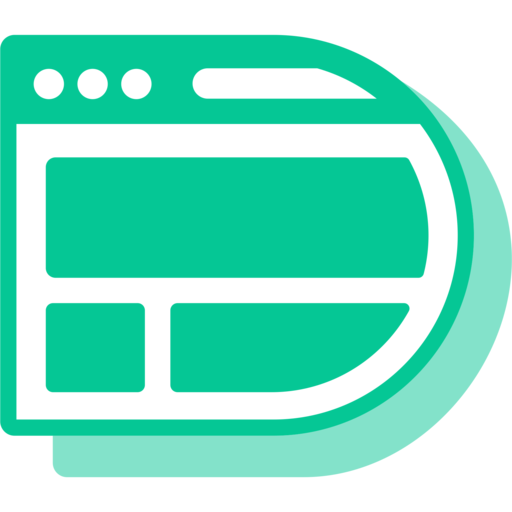
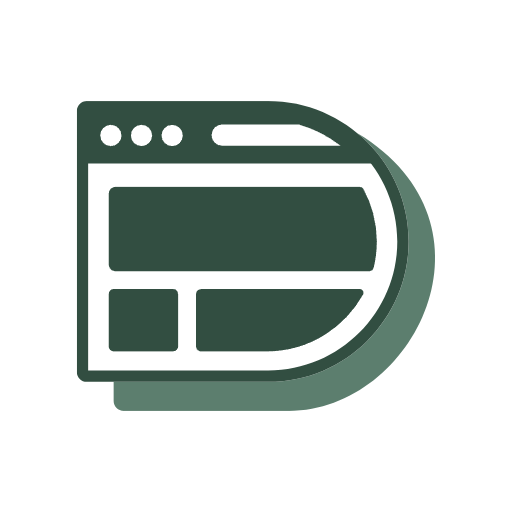
Update styling to Attic

diff --git a/assets/js/dashboard.js b/assets/js/dashboard.js
@@ -145,12 +145,26 @@ function loadData() {
             data: data.data,
             order: [[0, 'desc']],
             columns: [
-              { data: 'Date' },
+              { 
+                data: 'Date',
+                render: function(data, type, row) {
+                  if (type === 'display') {
+                    return data;
+                  }
+                  if (type === 'sort') {
+                    // Convert DD-MM-YYYY to YYYY-MM-DD for sorting
+                    const parts = data.split('-');
+                    return `${parts[2]}-${parts[1]}-${parts[0]}`;
+                  }
+                  return data;
+                }
+              },
               { data: 'Clone' },
               { data: 'Website' },
               { data: 'Statistics', render: function (data, type, row) { return data + ' views' } },
               {
-                data: 'Automated analysis', render: function (data, type, row) {
+                data: 'Automated analysis', 
+                render: function (data, type, row) {
                   if (data.startsWith('http')) {
                     return '<a href="' + data + '" style="border-bottom:0px;" target="_blank"><button class="uk-button uk-button-primary uk-button-small">Analysis</button></a>'
                   } else {
@@ -159,7 +173,8 @@ function loadData() {
                 }
               },
               {
-                data: 'Status', render: function (data, type, row) {
+                data: 'Status', 
+                render: function (data, type, row) {
                   return data == "Offline" ? '<font color="red">' + data + '</font>' : '<font color="green">' + data + '</font>';
                 }
               }

diff --git a/_includes/boxes_pricing.html b/_includes/boxes_pricing.html
@@ -31,7 +31,7 @@
                     {% endif %}
                     <h3 class="uk-card-title uk-margin">{{ item.title }}</h3>
                     {% if item.desc %}
-                      <span style="color: #05c896; font-size: 16px; font-weight: bold;" id="box_{{item.name}}">{{ item.desc }}</span>
+                      <span style="color: #324E41; font-size: 16px; font-weight: bold;" id="box_{{item.name}}">{{ item.desc }}</span>
                     {% endif %}
 		    <br />
 		    <br />
@@ -45,7 +45,7 @@
                     {% endfor %}
 		    </ul>
                     {% if item.price %}
-                      <span style="color: #05c896; font-size: 16px; font-weight: bold; display: none;" id="price_{{item.name}}">{{ item.price }}</span>
+                      <span style="color: #324E41; font-size: 16px; font-weight: bold; display: none;" id="price_{{item.name}}">{{ item.price }}</span>
                     {% endif %}
 		    <br /><br />
 		    <div id="pricing_button">{% if item.name == 'enterprise' %}<a href="https://azuremarketplace.microsoft.com/en-us/marketplace/apps/zolderbv1714139676050.didsomeonecloneme?tab=Overview" id="select_{{item.name}}" class="uk-button uk-button-primary" style="font-size: 1.125rem; color: #ffffff" target="_blank">Get Enterprise</a>{% else %}<a href="/?plan={{item.name}}" id="select_{{item.name}}" class="uk-button uk-button-primary" style="font-size: 1.125rem; color: #ffffff">Get {{ item.name }}</a>{% endif %}</div>

diff --git a/assets/css/main.scss b/assets/css/main.scss
@@ -51,28 +51,41 @@ html, body {
   max-height: 120px
 }
 
-.marker {
-  margin: 0 -0.4em;
-  padding: 0.05em 0.4em;
-  border-radius: 0.8em 0.3em;
-  background: transparent;
-  background-image: linear-gradient(
-  to right,
-  rgba(5, 200, 150, 0.1),
-  rgba(5, 200, 150, 0.7) 4%,
-  rgba(5, 200, 150, 0.3)
-  );
-  -webkit-box-decoration-break: clone;
-  box-decoration-break: clone;
-}
-
 .trusted-by {
-  display: flex;
-  justify-content: center;
-  align-items: center;
-  flex-direction: column;
+  background-color: #324e41;
+  color: #fff;
+  width: 100%;
+  padding: 4rem 0;
+  margin: 2rem 0;
   text-align: center;
-  padding-top: 4em;
+
+  h2 {
+    font-size: 2.5rem;
+    margin-bottom: 3rem;
+    font-weight: 500;
+    color: #fff;
+  }
+
+  .trusted-logos {
+    display: flex;
+    justify-content: center;
+    align-items: center;
+    gap: 4rem;
+    max-width: 800px;
+    margin: 0 auto;
+    padding: 0 2rem;
+
+    img {
+      max-height: 100px;
+      filter: brightness(0) invert(1); // Makes logos white
+      opacity: 0.9;
+      transition: opacity 0.3s ease;
+
+      &:hover {
+        opacity: 1;
+      }
+    }
+  }
 }
 
 .logo img {

diff --git a/_sass/theme/variables.scss b/_sass/theme/variables.scss
@@ -2,12 +2,12 @@
 // ========================================================================
 
 // Color
-$global-color:                                #323247;
+$global-color:                                #324E41;
 $global-muted-color:                          #8f919e;
-$global-primary-background:                   #05c896;
+$global-primary-background:                   #324E41;
 $global-secondary-background:                 #222;
-$global-warning-background:                   #fbc418;
-$global-success-background:                   #403e56;
+$global-warning-background:                   #FCDA00;
+$global-success-background:                   #324E41;
 $global-danger-background:                    #f0506e;
 $base-link-color:                               $global-color;
 $base-link-hover-color:                         $global-color;

diff --git a/_includes/head.html b/_includes/head.html
@@ -8,8 +8,8 @@
   <link rel="icon" type="image/png" sizes="32x32" href="/favicon-32x32.png">
   <link rel="icon" type="image/png" sizes="16x16" href="/favicon-16x16.png">
   <link rel="manifest" href="/site.webmanifest">
-  <link rel="mask-icon" href="/safari-pinned-tab.svg" color="#05c896">
-  <meta name="msapplication-TileColor" content="#05c896">
+  <link rel="mask-icon" href="/safari-pinned-tab.svg" color="#324E41">
+  <meta name="msapplication-TileColor" content="#324E41">
   <meta name="theme-color" content="#ffffff">
   <link rel="alternate" type="application/rss+xml" title="{{ site.title | escape }}" href="{{ "/feed.xml" | relative_url }}">
   <script src="{{ "/assets/js/main.js" | relative_url }}"></script>

diff --git a/_includes/trusted.html b/_includes/trusted.html
@@ -1,9 +1,8 @@
-<div class="trusted-by">
-  <h1><span class="marker">Trusted By</span></h1>
-  <p>
-  <div class="logo">
+<section class="trusted-by">
+  <h2>Trusted By 500+ Companies</h2>
+  <div class="trusted-logos">
+    <a href="https://www.thehumanspecialist.com/" target="_blank"><img src="/assets/img/trusted/ths.png" alt="The Human Specialist"></a>
     <a href="https://tigris.nl" target="_blank"><img src="/assets/img/trusted/tigris.png" alt="Tigris"></a>
     <a href="https://hapwijs.nl" target="_blank"><img src="/assets/img/trusted/hapwijs.png" alt="Hapwijs"></a>
   </div>
-  </p>
-</div>
+</section>

diff --git a/_includes/boxes.html b/_includes/boxes.html
@@ -33,7 +33,7 @@
                     {% endif %}
                     <h3 class="uk-card-title uk-margin">{{ item.title }}</h3>
                     {% if item.desc %}
-                      <span style="color: #05c896; font-size: 30px; font-weight: bold;" id="box_{{item.name}}">{{ item.desc }}</span>
+                      <span style="color: #324E41; font-size: 30px; font-weight: bold;" id="box_{{item.name}}">{{ item.desc }}</span>
                     {% endif %}
                 </div>
             </div>

diff --git a/pages/contact.md b/pages/contact.md
@@ -10,24 +10,25 @@ description: If you have any questions or concerns regarding our clone detection
 [![Attic](/uploads/attic_banner.png)](https://atticsecurity.com/en/)
 
 ## About us
-DSCM is developed by <a href="https://www.linkedin.com/in/wesleyneelen/">Wesley Neelen</a>, co-founder of the cybersecurity startup <a href="https://zolder.io/">Zolder</a> and mobile app <a href="https://atticsecurity.com/">Attic</a>. 
-I have been working for more then 10 years as an ethical hacker / penetration tester. In this role the main task is to find vulnerabilities within IT-environments of customers and advising them on how to mitigate the vulnerabilities.
-
-Next to penetration tests, I also perform security research. One of the subjects was investigating phishing sites that pop-up every day. During this work I saw the lack of protection mechanisms against <a href="/what-is-website-cloning/">website cloning</a>. While some techniques are available.
-
-This is why DSCM was created. Our mission is to simplify website clone protection. While technical knowledge enables you to implement these measures independently, we aim to make it even easier and more accessible to everyone. We strive to build a tool that individuals of all skill levels can effortlessly implement this technology.
+DSCM is developed by <a href="https://www.atticsecurity.com/">Attic Security</a>. We believe that robust cybersecurity shouldn't be complex. Our mission is to protect organizations through innovative and user-friendly solutions. While traditional security measures often require extensive technical expertise, we've streamlined the process to make enterprise-grade protection accessible to everyone.
 
 ## Contact us
 <span data-uk-icon="icon: mail;" class=""></span> <a href="mailto:contact@didsomeoneclone.me">contact@didsomeoneclone.me</a>
 
-<span data-uk-icon="icon: twitter;" class=""></span> <a href="https://twitter.com/wesleyneelen">@wesleyneelen</a>
+<span data-uk-icon="icon: phone;" class=""></span> <a href="tel:31 168 799 850">+31 (0) 168 799 850</a>
 
-<span data-uk-icon="icon: linkedin;" class=""></span> <a href="https://www.linkedin.com/in/wesleyneelen/">https://www.linkedin.com/in/wesleyneelen/</a>
+<span data-uk-icon="icon: world;" class=""></span> <a href="https://atticsecurity.com">https://atticsecurity.com</a>
 
-<span data-uk-icon="icon: world;" class=""></span> <a href="https://forsec.nl">My personal blog</a>
+<span data-uk-icon="icon: linkedin;" class=""></span> <a href="https://www.linkedin.com/company/atticsecurity/">https://www.linkedin.com/company/atticsecurity/</a>
 
 <span data-uk-icon="icon: lock;" class=""></span> <a href="/responsible-disclosure/">Responsible disclosure</a>
 
+## Address
+<div class="address-details">
+Molenstraat 36<br>
+4761 CL Zevenbergen<br>
+The Netherlands
+</div>
 
 ## Feedback
 Want to share feedback with us? Please use our <a href="https://zolderbv.typeform.com/dscm-feedback">feedback form</a>.

diff --git a/pages/seal-symbol.md b/pages/seal-symbol.md
@@ -67,10 +67,10 @@ permalink: /seal-symbol
             font-weight: 900;
             position: absolute;
             left: 20px;
-            color: #05c896;
+            color: #324E41;
         }
         .subtitle a {
-            color: #05c896;
+            color: #324E41;
             text-decoration: none;
         }
         .subtitle a:hover {
@@ -79,7 +79,7 @@ permalink: /seal-symbol
         .icon-box {
             width: 160px;
             height: 160px;
-            border: 3px solid #05c896;
+            border: 3px solid #324E41;
             border-radius: 12px;
             display: flex;
             justify-content: center;
@@ -95,7 +95,7 @@ permalink: /seal-symbol
             left: -8px;
             right: -8px;
             bottom: -8px;
-            border: 2px solid #05c896;
+            border: 2px solid #324E41;
             border-radius: 16px;
             opacity: 0.3;
             pointer-events: none;
@@ -109,12 +109,12 @@ permalink: /seal-symbol
         }
         .icon-box i {
             font-size: 64px;
-            color: #05c896;
+            color: #324E41;
         }
         /* Add new loading spinner styles */
         .loading {
             border: 4px solid #f3f3f3;
-            border-top: 4px solid #05c896;
+            border-top: 4px solid #324E41;
             border-radius: 50%;
             width: 40px;
             height: 40px;

diff --git a/pages/dashboard.md b/pages/dashboard.md
@@ -31,7 +31,7 @@ description: The DSCM Premium users dashboard.
 
 .modal-header {
   border-radius: 10px;
-  background-color: #05c896;
+  background-color: #324E41;
   padding: 10px 20px;
   color: white;
   display: flex;
@@ -165,7 +165,7 @@ window.addEventListener('load', async (event) => {
 <div class="" style="height:150px;width:150px; margin:auto" id="loader">
 <svg version="1.1" id="L9" xmlns="http://www.w3.org/2000/svg" xmlns:xlink="http://www.w3.org/1999/xlink" x="0px" y="0px"
   viewBox="0 0 100 100" enable-background="new 0 0 0 0" xml:space="preserve">
-    <path fill="#05c896" d="M73,50c0-12.7-10.3-23-23-23S27,37.3,27,50 M30.9,50c0-10.5,8.5-19.1,19.1-19.1S69.1,39.5,69.1,50">
+    <path fill="#324E41" d="M73,50c0-12.7-10.3-23-23-23S27,37.3,27,50 M30.9,50c0-10.5,8.5-19.1,19.1-19.1S69.1,39.5,69.1,50">
       <animateTransform 
          attributeName="transform" 
          attributeType="XML" 

diff --git a/pages/microsoft-ads-success.md b/pages/microsoft-ads-success.md
@@ -11,7 +11,7 @@ tags:
 ---
 
 <link rel="stylesheet" href="/assets/css/main.css">
-<div style="background-color:#05c896;height:100%;width:100%;text-align: center;color:#fff">
+<div style="background-color:#324E41;height:100%;width:100%;text-align: center;color:#fff">
 <p><img style="width:50%;margin:50px" src="/assets/img/blogs/ok-check.png"></p>
 <p>DSCM installed successfully. Whenever a phishing attack is discovered, we will contact you via email.</p>
 </div>

diff --git a/index.md b/index.md
@@ -6,7 +6,7 @@ hero:
     title: Did someone clone me?
     subtitle: Request a link below and start detecting clones of your website
     search: true
-    image: dscm.png
+    image: dscm.svg
 image: /uploads/dscm_sm.png
 description: We offer a free service that enables you to detect phishing attacks abusing your website. This allows you to protect your website and it's visitors against phishing attacks.
 ---
